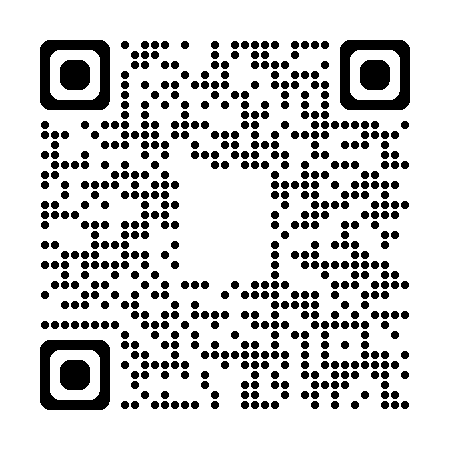
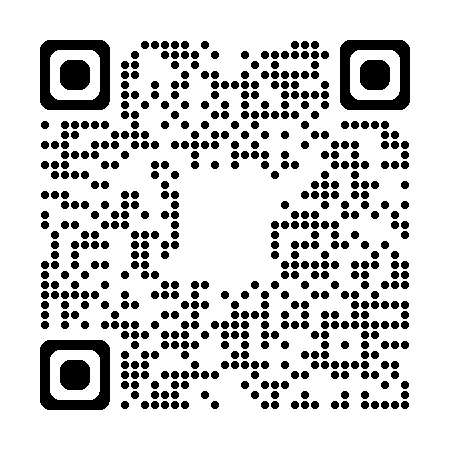
?v=61

diff --git a/qrcode/index.html b/qrcode/index.html
@@ -3,18 +3,12 @@
   <head>
     <meta charset="UTF-8" />
     <meta name="viewport" content="width=device-width, initial-scale=1.0" />
-    <title>?v=60 vote-woke</title>
+    <title>?v=61 vote-woke</title>
   </head>
   <body>
     <div>
-      <h1 id="id_title">Welcome to Vote-Woke ?v=60</h1>
-      By entering this site you agree to have anonymous user data stored <br />
-      <h2>
-        <a href="../index.html?scroll=1" id="id_link">
-          <!-- -->
-          Vote Woke!
-        </a>
-      </h2>
+      <h1 id="id_title">Welcome to Vote-Woke ?v=61</h1>
+      <!-- By entering this site you agree to have anonymous user data stored <br /> -->
       <h2>
         <a href="https://heathercoxrichardson.substack.com/p/october-26-2024">
           <!-- -->
@@ -22,6 +16,21 @@
         </a>
         <br />
         by Heather Cox Richardson Oct 27, 2024
+      </h2>
+      <h2>
+        <a href="https://molab-itp.github.io/p5moLibrary/src/demo/mo-videoplayer/?playlist=8K6-cEAJZlE">
+          <!-- -->
+          Watch the video - Post-WW2 Anti-Fascist Educational Film | Don't Be a Sucker | 1947
+        </a>
+        <br />
+        Don't Be a Sucker! is a short educational film produced by the U.S. War Department in 1943 and re-released in
+        1947.
+      </h2>
+      <h2>
+        <a href="../index.html?scroll=1" id="id_link">
+          <!-- -->
+          Vote Woke!
+        </a>
       </h2>
       <!-- <h2>Enter to control of the poem on the big screen!</h2> -->
       <br />
@@ -32,7 +41,7 @@
     </div>
 
     <script>
-      let my_version = '?v=60';
+      let my_version = '?v=61';
       let str = window.location.search;
       if (str) {
         str = '&' + str.substring(1);

diff --git a/a_sketch.js b/a_sketch.js
@@ -34,7 +34,7 @@ let my = {};
 
 function setup() {
   noCanvas();
-  my.version = '?v=60';
+  my.version = '?v=61';
   my.debugMode = displayWidth > 1080;
   // my.footerHeight = '288px';
   my.qrCodeWidth = '25%';
@@ -56,8 +56,8 @@ function setup() {
   received_gallery(images_ref);
 
   my.qrcode_url = () => {
-    // return `./qrcode/qrcode_heathercoxrichardson.substack.com.png?v=60`;
-    return `./qrcode/qrcode.png?v=60`;
+    // return `./qrcode/qrcode_heathercoxrichardson.substack.com.png?v=61`;
+    return `./qrcode/qrcode.png?v=61`;
   };
   my.showQRCode = () => {
     // qrCode is only shown for screen width greater than 800
@@ -314,10 +314,10 @@ function params_query(query) {
 // https://editor.p5js.org/jht1493/sketches/2OYRyVuhx
 // firebase mo-gallery-1
 
-// https://molab-itp.github.io/p5moLibrary/src/demo/mo-gallery-1/?v=60
+// https://molab-itp.github.io/p5moLibrary/src/demo/mo-gallery-1/?v=61
 
 // https://editor.p5js.org/jht9629-nyu/sketches/VtqUmOlGB
 
 // https://heathercoxrichardson.substack.com/p/october-26-2024
 
-// https://molab-itp.github.io/moSalon/src/vote-no-fascism/?v=60
+// https://molab-itp.github.io/moSalon/src/vote-no-fascism/?v=61

diff --git a/index.html b/index.html
@@ -10,7 +10,7 @@
     <!-- v2023-02-08 18:01:45 -->
     <main></main>
 
-    <script src="report_status.js?v=60"></script>
-    <script src="a_sketch.js?v=60"></script>
+    <script src="report_status.js?v=61"></script>
+    <script src="a_sketch.js?v=61"></script>
   </body>
 </html>

diff --git a/report_status.js b/report_status.js
@@ -8,7 +8,7 @@ if (globalThis.window) {
 }
 
 function dbase_report_status_version() {
-  dbase_report_status({ msg: '?v=60 ' + new Date().toISOString() });
+  dbase_report_status({ msg: '?v=61 ' + new Date().toISOString() });
 }
 
 function dbase_report_status(props) {
